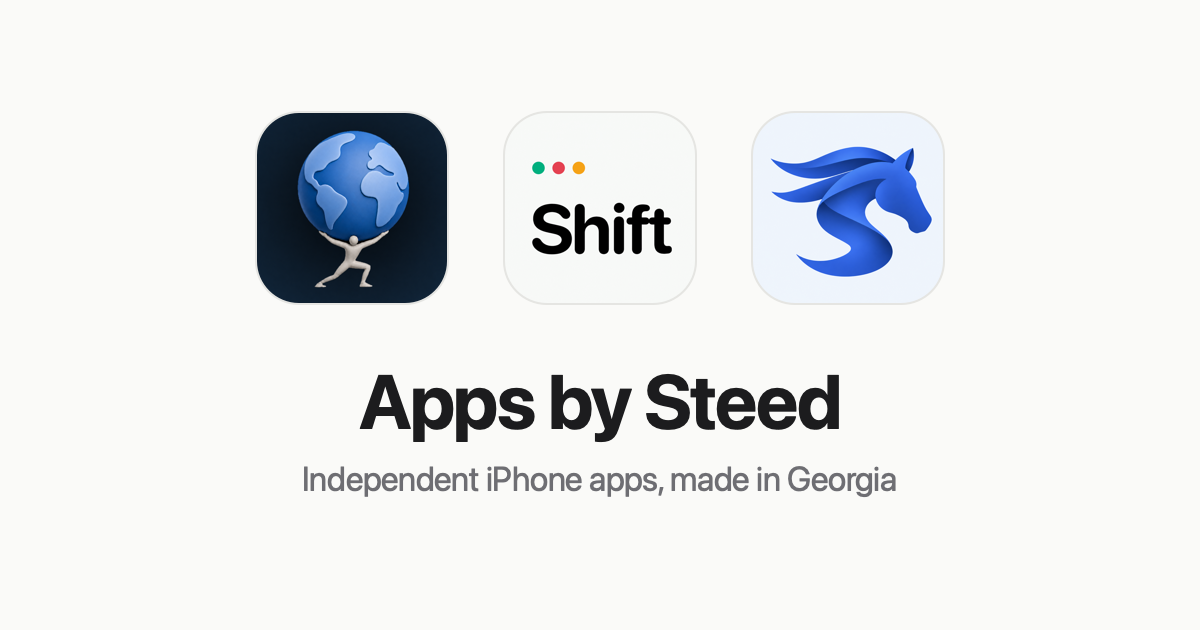
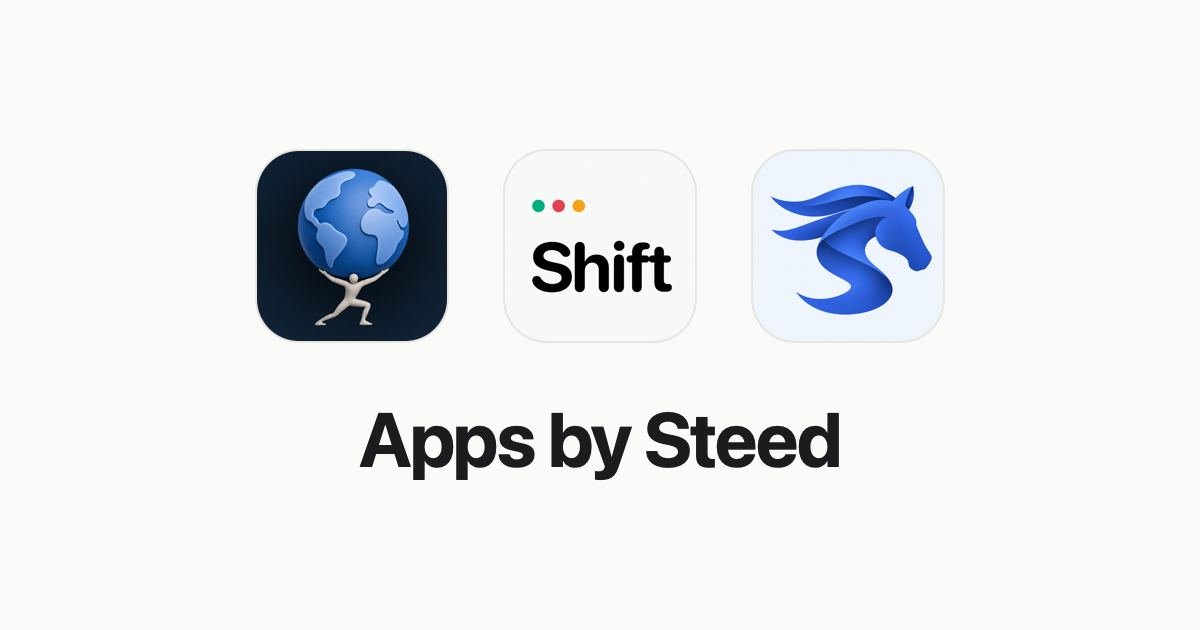
Homepage: no tagline, tighter app rows
Drops the intro line and the flag, and the line from the description and
the link preview. Icons go from 64 to 52px with less padding.

diff --git a/index.html b/index.html
@@ -4,12 +4,12 @@
   <meta charset="utf-8">
   <meta name="viewport" content="width=device-width, initial-scale=1">
   <title>Apps by Steed</title>
-  <meta name="description" content="Independent iPhone apps, made in Georgia: AtlasDays, Shift and Stallion.">
+  <meta name="description" content="iPhone apps by Steed: AtlasDays, Shift and Stallion.">
   <link rel="canonical" href="https://bysteed.com/">
   <meta property="og:type" content="website">
   <meta property="og:site_name" content="Steed">
   <meta property="og:title" content="Apps by Steed">
-  <meta property="og:description" content="Independent iPhone apps, made in Georgia: AtlasDays, Shift and Stallion.">
+  <meta property="og:description" content="iPhone apps by Steed: AtlasDays, Shift and Stallion.">
   <meta property="og:url" content="https://bysteed.com/">
   <meta property="og:image" content="https://bysteed.com/assets/og/home.png">
   <meta property="og:image:width" content="1200">
@@ -24,13 +24,12 @@
 <body>
   <main>
     <h1 class="brand"><svg class="mark" width="36" height="36" viewBox="0 0 32 32" aria-hidden="true"><mask id="mark-trail" maskUnits="userSpaceOnUse" maskContentUnits="userSpaceOnUse" x="0" y="0" width="32" height="32"><rect width="32" height="32" fill="white"/><path d="M9 30C12 25 23 25 23 22C23 20 12 22 12 18.5C12 16 20 16 21 12L21 5L22 10C23 16 15 18 15 19C15 20 27 18 27 22C27 26 18 27 16 30Z" fill="black"/></mask><path d="M1 28 10 13 14 16 21 5 31 28Z" fill="currentColor" mask="url(#mark-trail)"/></svg>Apps by Steed</h1>
-    <p class="intro">Independent iPhone apps, made in <span class="nowrap">Georgia <img class="flag" src="/assets/flags/ge.svg" alt="" width="18" height="12"></span></p>
 
     <ul class="apps">
       <li>
         <a class="app" href="https://atlasdays.app">
-          <img class="light-only" src="/assets/icons/atlasdays.png" alt="" width="64" height="64">
-          <img class="dark-only" src="/assets/icons/atlasdays-dark.png" alt="" width="64" height="64">
+          <img class="light-only" src="/assets/icons/atlasdays.png" alt="" width="52" height="52">
+          <img class="dark-only" src="/assets/icons/atlasdays-dark.png" alt="" width="52" height="52">
           <span class="text">
             <span class="name">AtlasDays</span>
             <span class="line">Track visas, residency, and travel</span>
@@ -39,8 +38,8 @@
       </li>
       <li>
         <a class="app" href="/shift/">
-          <img class="light-only" src="/assets/icons/shift.png" alt="" width="64" height="64">
-          <img class="dark-only" src="/assets/icons/shift-dark.png" alt="" width="64" height="64">
+          <img class="light-only" src="/assets/icons/shift.png" alt="" width="52" height="52">
+          <img class="dark-only" src="/assets/icons/shift-dark.png" alt="" width="52" height="52">
           <span class="text">
             <span class="name">Shift</span>
             <span class="line">An interval timer for workouts</span>
@@ -49,8 +48,8 @@
       </li>
       <li>
         <a class="app" href="/stallion/">
-          <img class="light-only" src="/assets/icons/stallion.png" alt="" width="64" height="64">
-          <img class="dark-only" src="/assets/icons/stallion-dark.png" alt="" width="64" height="64">
+          <img class="light-only" src="/assets/icons/stallion.png" alt="" width="52" height="52">
+          <img class="dark-only" src="/assets/icons/stallion-dark.png" alt="" width="52" height="52">
           <span class="text">
             <span class="name">Stallion</span>
             <span class="line">Notes on every Health workout</span>

diff --git a/scripts/build_og_home.swift b/scripts/build_og_home.swift
@@ -22,7 +22,7 @@ NSRect(x: 0, y: 0, width: W, height: H).fill()
 let size: CGFloat = 192, gap: CGFloat = 56
 let icons = ["atlasdays", "shift", "stallion"]
 let rowW = size * 3 + gap * 2
-let top: CGFloat = 112
+let top: CGFloat = 150
 for (i, name) in icons.enumerated() {
     let img = NSImage(contentsOfFile: "\(root)/assets/icons/\(name).png")!
     let r = NSRect(x: (CGFloat(W) - rowW) / 2 + CGFloat(i) * (size + gap), y: CGFloat(H) - top - size,
@@ -42,8 +42,7 @@ func text(_ s: String, _ font: NSFont, _ color: NSColor, top: CGFloat) {
     let sz = a.size()
     a.draw(at: NSPoint(x: (CGFloat(W) - sz.width) / 2, y: CGFloat(H) - top - sz.height))
 }
-text("Apps by Steed", .systemFont(ofSize: 76, weight: .bold), hex(0x1c1c1e), top: 356)
-text("Independent iPhone apps, made in Georgia", .systemFont(ofSize: 34, weight: .regular), hex(0x6e6e73), top: 458)
+text("Apps by Steed", .systemFont(ofSize: 76, weight: .bold), hex(0x1c1c1e), top: 394)
 
 NSGraphicsContext.current = nil
 try! rep.representation(using: .png, properties: [:])!.write(to: URL(fileURLWithPath: out))

diff --git a/style.css b/style.css
@@ -70,8 +70,8 @@ h1 + .apps { margin-top: 48px; }
 .app {
   display: flex;
   align-items: center;
-  gap: 16px;
-  padding: 16px 8px;
+  gap: 14px;
+  padding: 12px 8px;
   margin: 0 -8px;
   border-radius: 12px;
   color: inherit;
@@ -83,9 +83,9 @@ a.app:focus-visible { outline: 2px solid var(--text); outline-offset: 2px; }
 
 .app img {
   flex: none;
-  width: 64px;
-  height: 64px;
-  border-radius: 14px;
+  width: 52px;
+  height: 52px;
+  border-radius: 12px;
   box-shadow: 0 0 0 1px var(--line);
 }
 
@@ -99,15 +99,6 @@ a.app:focus-visible { outline: 2px solid var(--text); outline-offset: 2px; }
   color: var(--muted);
   font-size: 15px;
   white-space: nowrap;
-}
-
-.nowrap { white-space: nowrap; }
-
-.intro .flag {
-  vertical-align: 0;
-  margin-left: 2px;
-  border-radius: 2px;
-  box-shadow: 0 0 0 1px var(--line);
 }
 
 footer {
